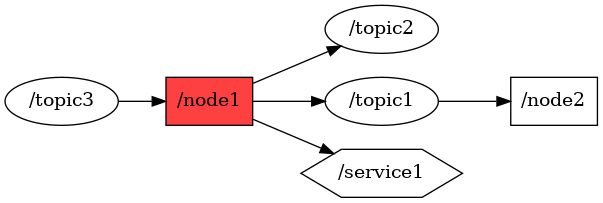
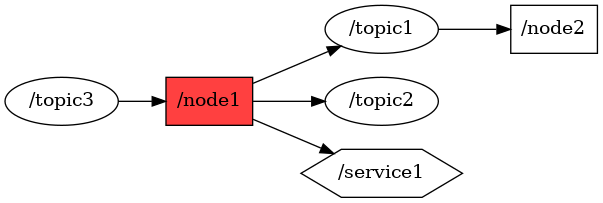
Update examples

diff --git a/example/rosnodelist/out/nodes/_node1.html b/example/rosnodelist/out/nodes/_node1.html
@@ -22,7 +22,7 @@
         <img src="_node1.png" alt="node _node1" usemap="#_node1">
 <map id="_node1" name="_node1">
 <area shape="rect" id="node1" href="_node1.html" title="node: /node1" alt="" coords="166,77,253,125"/>
-<area shape="rect" id="node6" href="_node2.html" title="node: /node2" alt="" coords="511,77,597,125"/>
+<area shape="rect" id="node6" href="_node2.html" title="node: /node2" alt="" coords="511,5,597,53"/>
 </map>
 
     </div>
